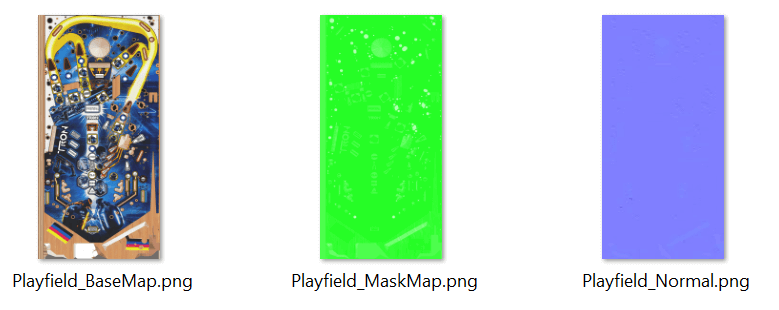
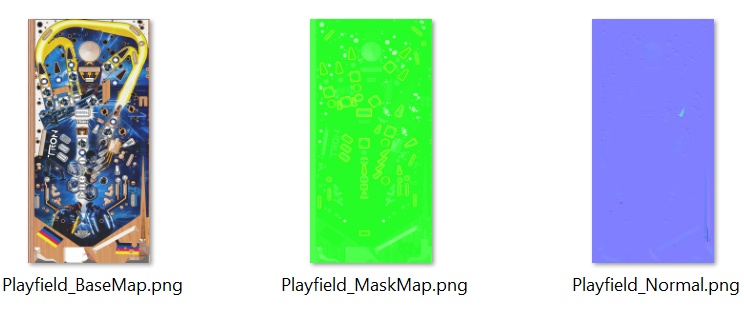
doc: Add edge correction.

diff --git a/VisualPinball.Unity/Documentation~/creators-guide/tutorials/realistic-playfield/3-texturing.md b/VisualPinball.Unity/Documentation~/creators-guide/tutorials/realistic-playfield/3-texturing.md
@@ -178,6 +178,12 @@ If you want to align the mapping, hit `F2` to see the mapping on the UV tile, wh
 
 ![Edge Mapping](substance-edge-mapping.png)
 
+But let's stick with the current one. It needs a bit of adjusting. First of all, looking at it from a distance, it's kind of boring, nearly like solid colors. Right-click on the layer and choose *Add filter*. Click on *Filter* and select *Sharpen*. At `1` it looks better already, but tweak as you feel like.
+
+Secondly, the colors are slightly off. Add another filter effect and choose *Color Balance*. In our case, increasing the reds and magentas of midtones and highlights does the trick.
+
+![Edge Mapping](substance-edge-corrected.png)
+
 ## Plunger Lane
 
 One of the drawbacks of replacing the scanned wood with a material from Substance Painter is that the plunger lane, which is typically cut into the wood, becomes invisible. So, let's add this back.
@@ -221,6 +227,10 @@ Red means there's a problem. This is most definitely the playfield's albedo that
 
 The rest seems related to the fake holes. Looks like `#050505` was way too dark. Pushing up to `#1E1E1E` turns the rest of the playfield green.
 
+Here our fully textured playfield.
+
+![PBR Invalid](substance-final-result.png)
+
 ## Export
 
 First of all, if you have come so far, congrats. That was quite a ride. The rest is a lot easier.
@@ -248,4 +258,4 @@ Now, to export, click again on *File -> Export Textures*, select the folder wher
 
 ![Final Masks](substance-final-masks.png)
 
-On first sight, the result doesn't look like much, so let's bring this into Unity!
+On first sight, the result doesn't look like much, so let's [bring this into Unity](xref:tutorial_playfield_4)!

diff --git a/VisualPinball.Unity/Documentation~/creators-guide/tutorials/realistic-playfield/3b-more-texturing.md b/VisualPinball.Unity/Documentation~/creators-guide/tutorials/realistic-playfield/3b-more-texturing.md
@@ -4,7 +4,7 @@ title: Create a Realistic Looking Playfield - Texturing (advanced)
 description: Adding those cherrys on top...
 ---
 
-# Texturing (advanced)
+# Texturing (details)
 
 Most projects probably don't have Mylar stickers or silver paint on the playfield, which is why we decided to dedicate a separate page for this. If you have something similar to add to your playfield, do it before the [Wrapping Up](xref:tutorial_playfield_3#wrapping-up) section of *Texturing*.
 

diff --git a/VisualPinball.Unity/Documentation~/creators-guide/tutorials/realistic-playfield/4-import-into-unity.md b/VisualPinball.Unity/Documentation~/creators-guide/tutorials/realistic-playfield/4-import-into-unity.md
@@ -1,0 +1,8 @@
+---
+uid: tutorial_playfield_4
+title: Create a Realistic Looking Playfield - Unity
+description: How to import the model and the textures into Unity.
+---
+
+# Import Into Unity
+
